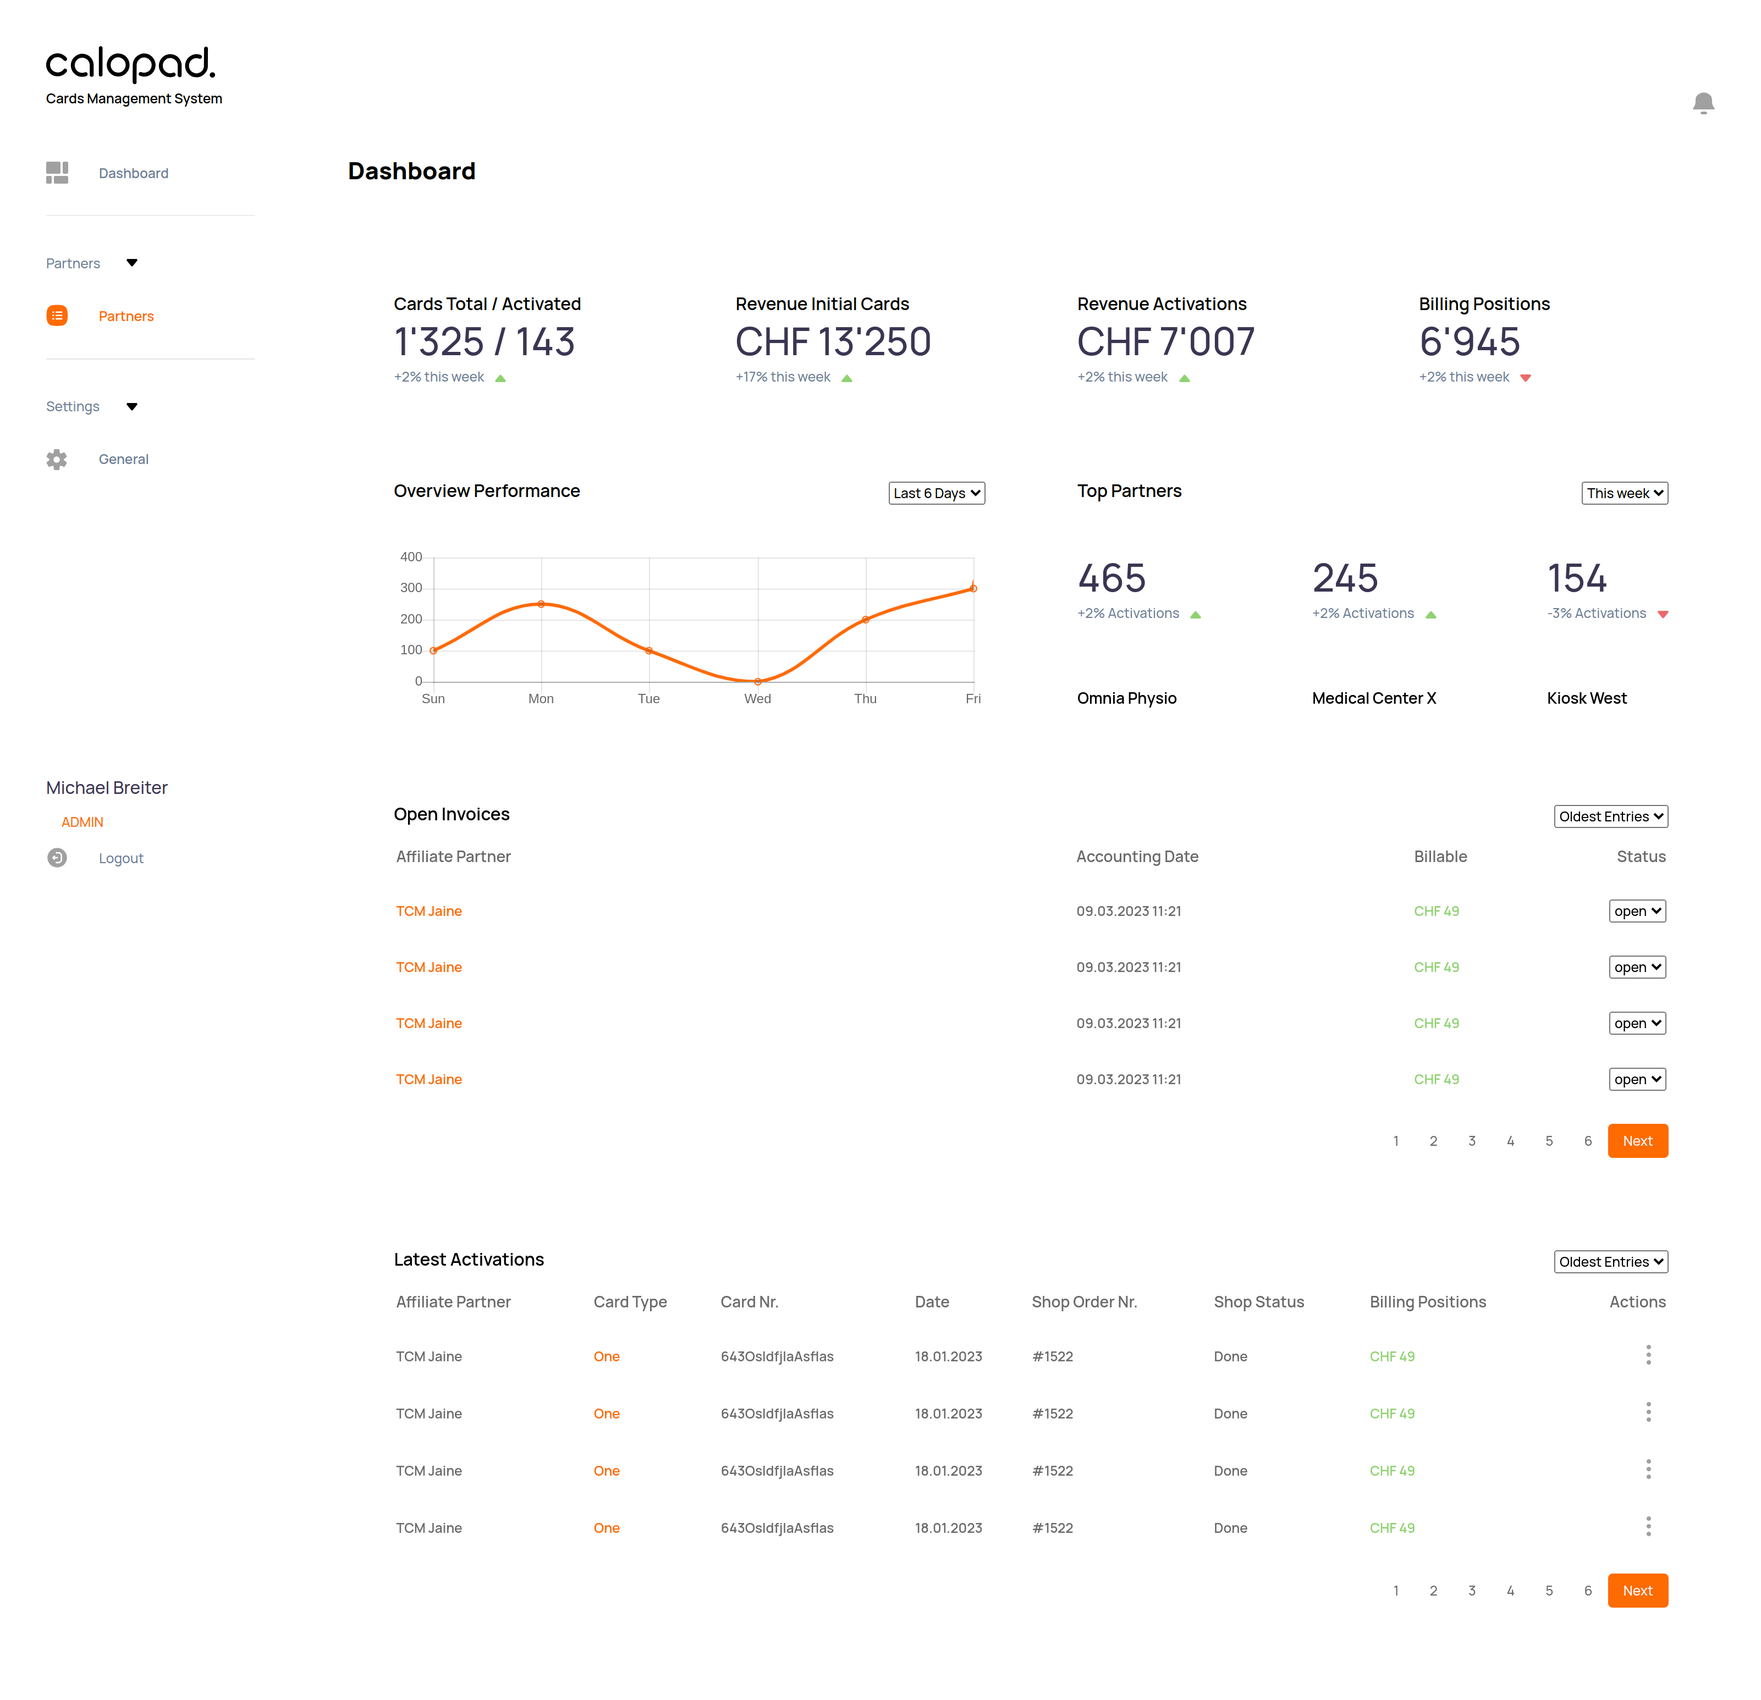
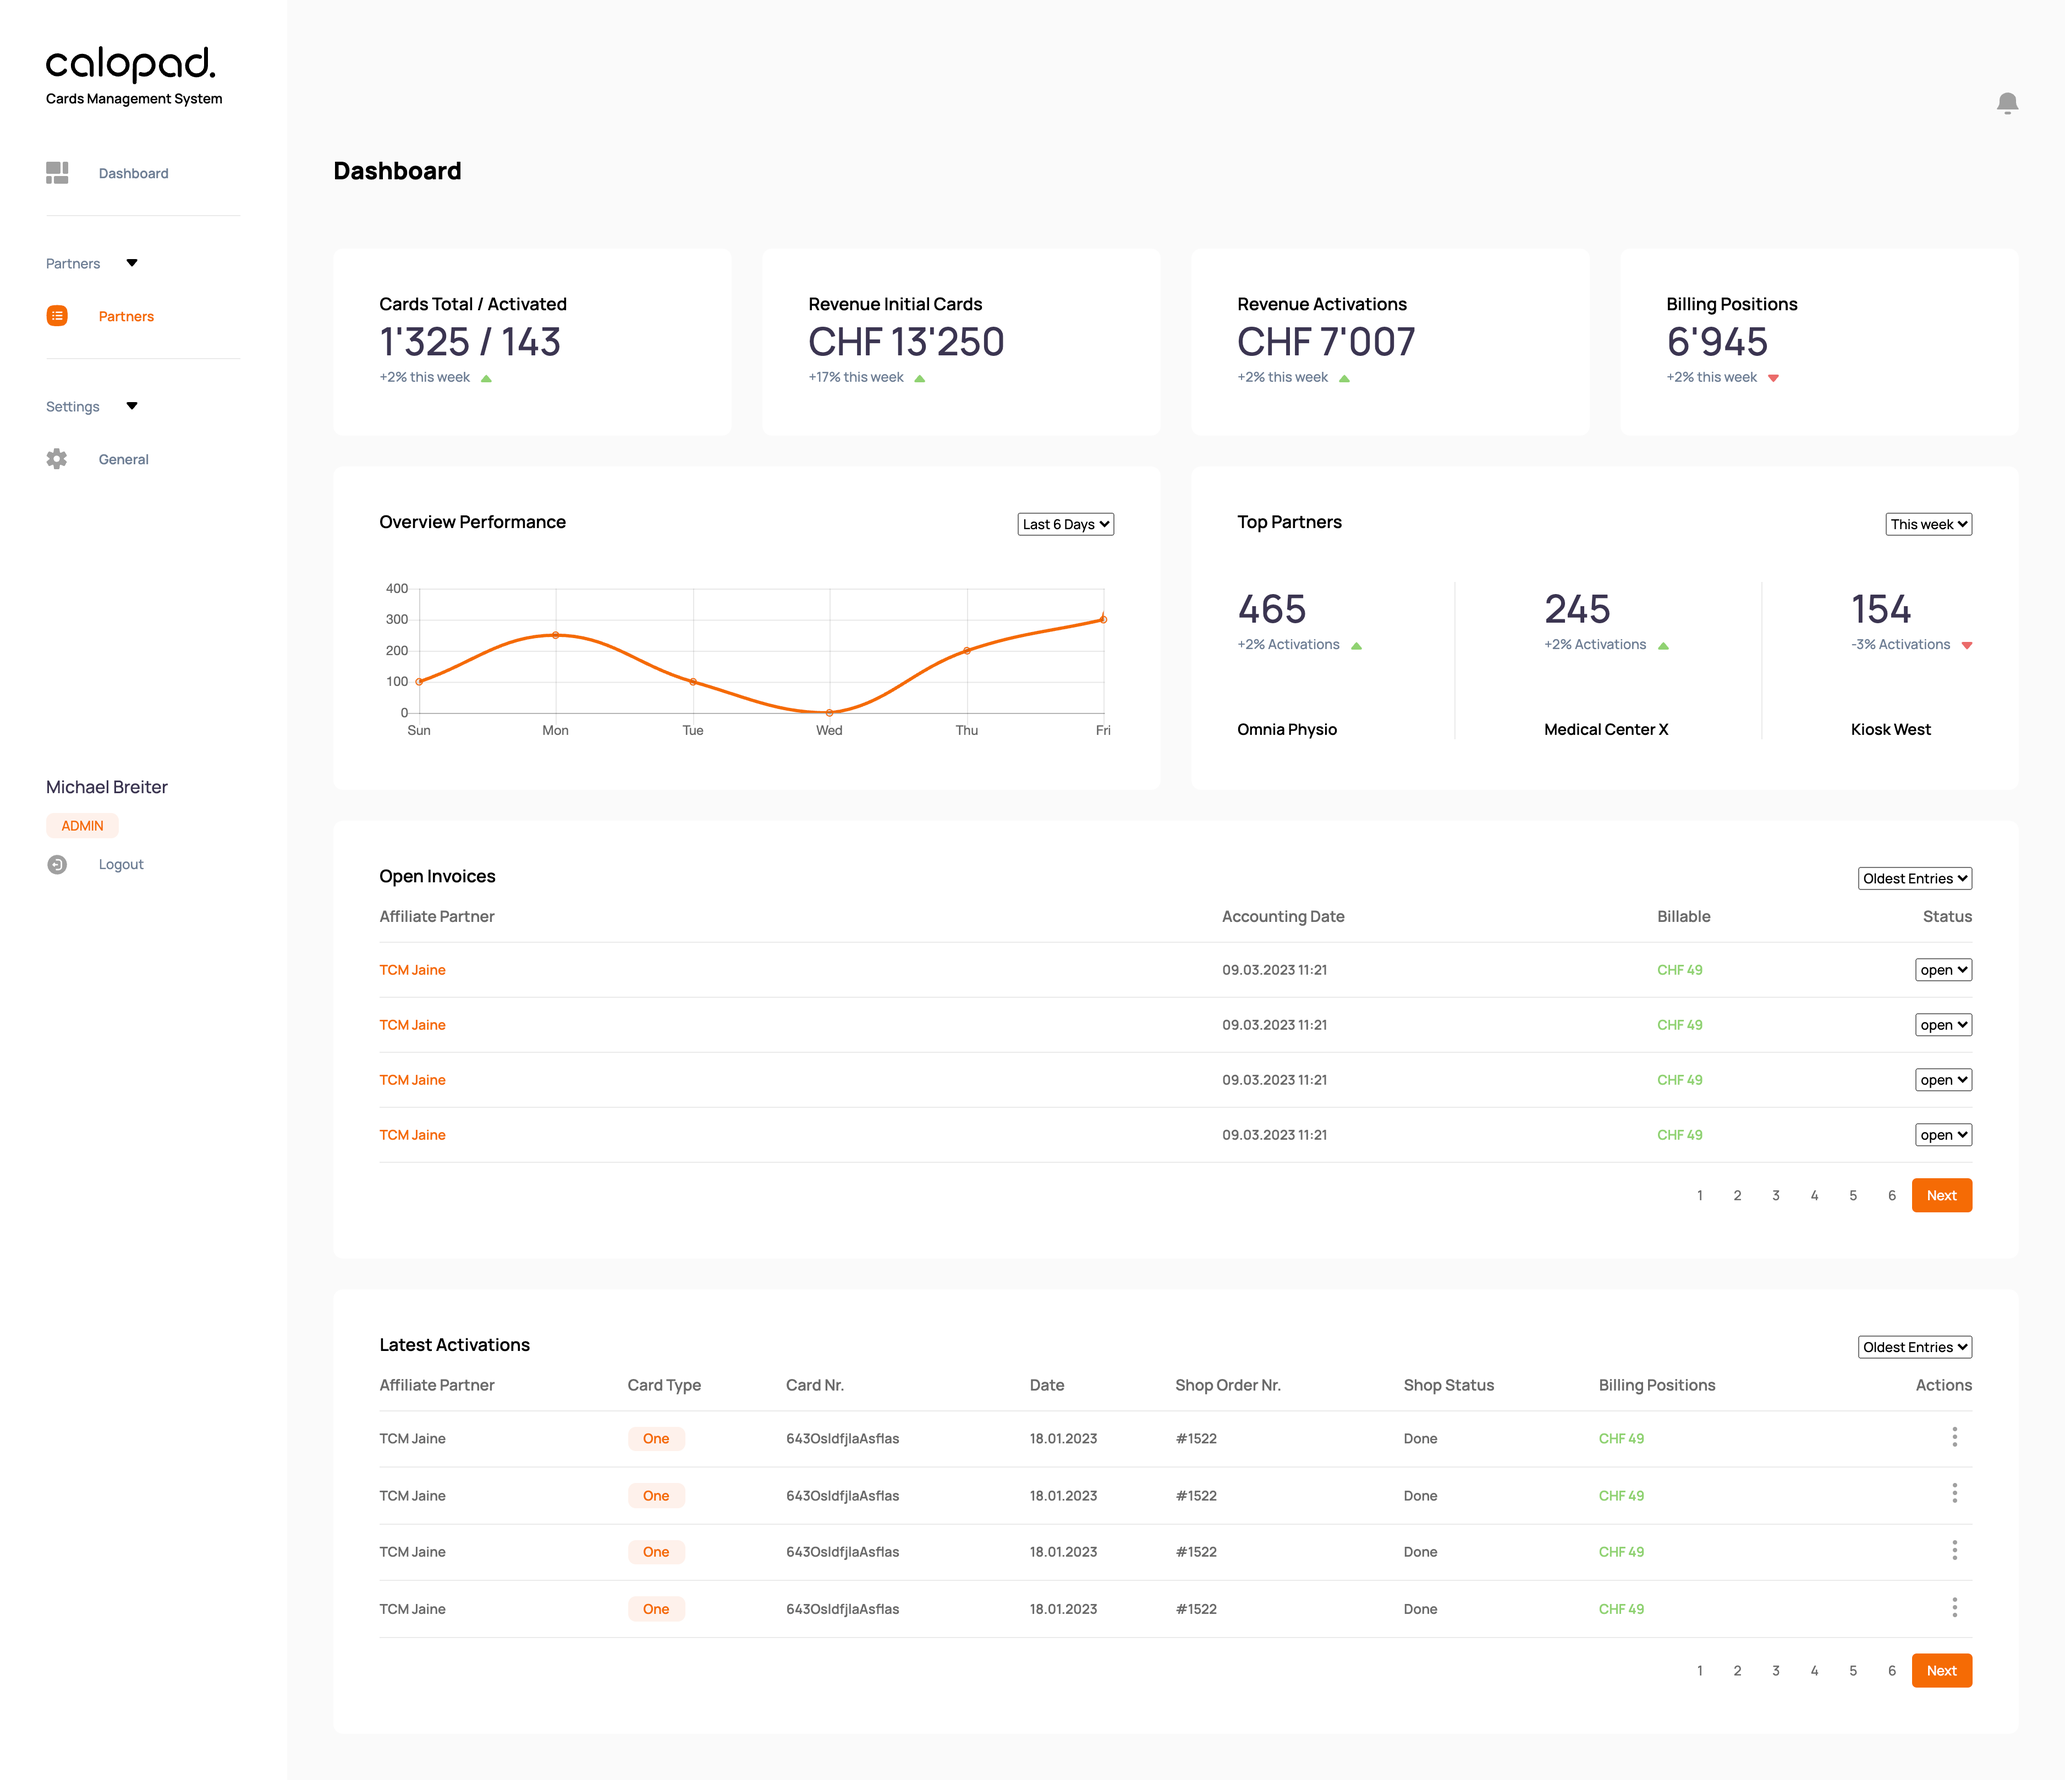
fix: color issues

diff --git a/index.html b/index.html
@@ -61,7 +61,7 @@
       </ul>
       <div class="nav-footer">
         <p class="card-title light-primary"> Michael Breiter </p>
-        <p class="orange py-1 pl-1">ADMIN</p>
+        <p class="orange py-1 pl-1 my-1 tag">ADMIN</p>
         <div class="d-flex align-items-center">
           <img src="images/logout.svg" alt="logout" width="20" height="20" class="mr-2" />
           <span class="light-secondary">Logout</span>
@@ -79,7 +79,7 @@
           <h1 class="font-800">Dashboard</h1>
         </div>
         <div class="cards-container">
-          <div class="p-3">
+          <div class="p-3 card">
             <div class="card-title font-600">Cards Total / Activated</div>
             <div class="card-counts light-primary font-500">1'325 / 143</div>
             <div class="card-variation d-flex">
@@ -87,7 +87,7 @@
               <img src="images/arrow_up.svg" alt="Arrow Up">
             </div>
           </div>
-          <div class="p-3">
+          <div class="p-3 card">
             <div class="card-title font-600">Revenue Initial Cards</div>
             <div class="card-counts light-primary font-500">CHF 13'250</div>
             <div class="card-variation d-flex">
@@ -95,7 +95,7 @@
               <img src="images/arrow_up.svg" alt="Arrow Up">
             </div>
           </div>
-          <div class="p-3">
+          <div class="p-3 card">
             <div class="card-title font-600">Revenue Activations</div>
             <div class="card-counts light-primary font-500">CHF 7'007</div>
             <div class="card-variation d-flex">
@@ -103,7 +103,7 @@
               <img src="images/arrow_up.svg" alt="Arrow Up">
             </div>
           </div>
-          <div class="p-3">
+          <div class="p-3 card">
             <div class="card-title font-600">Billing Positions</div>
             <div class="card-counts light-primary font-500">6'945</div>
             <div class="card-variation d-flex">
@@ -112,8 +112,8 @@
             </div>
           </div>
         </div>
-        <div class="cards-container">
-          <div class="p-3">
+        <div class="cards-container mt-2">
+          <div class="p-3 card">
             <div class="card-head d-flex justify-space-between">
               <div class="card-title font-600">Overview Performance</div>
               <select>
@@ -124,7 +124,7 @@
               <canvas id="chart"></canvas>
             </div>
           </div>
-          <div class="p-3">
+          <div class="p-3 card">
             <div class="card-head d-flex justify-space-between">
               <div class="card-title font-600">Top Partners</div>
               <select>
@@ -133,7 +133,7 @@
             </div>
             <div class="card-body pt-3">
               <div class="d-flex justify-space-between">
-                <div>
+                <div class="right-border pr-6">
                   <div class="card-counts light-primary font-500">465</div>
                   <div class="card-variation d-flex">
                     <p class="light-secondary">+2% Activations</p>
@@ -141,7 +141,7 @@
                   </div>
                   <div class="font-size-1 font-600 mt-4">Omnia Physio</div>
                 </div>
-                <div>
+                <div class="right-border pr-6">
                   <div class="card-counts light-primary font-500">245</div>
                   <div class="card-variation d-flex">
                     <p class="light-secondary">+2% Activations</p>
@@ -161,8 +161,8 @@
             </div>
           </div>
         </div>
-        <div class="cards-container">
-          <div class="p-3">
+        <div class="cards-container mt-2">
+          <div class="p-3 card">
             <div class="card-head d-flex justify-space-between">
               <div class="card-title font-600" id="open-invoices">Open Invoices</div>
               <select>
@@ -242,8 +242,8 @@
             </div>
           </div>
         </div>
-        <div class="cards-container">
-          <div class="p-3">
+        <div class="cards-container mt-2">
+          <div class="p-3 card">
             <div class="card-head d-flex justify-space-between">
               <div class="card-title font-600" id="latest-activations">Latest Activations</div>
               <select>
@@ -268,7 +268,7 @@
                   <tr>
                     <td>TCM Jaine</td>
                     <td>
-                      <div class="orange">One</div>
+                      <div class="tag">One</div>
                     </td>
                     <td>643OsldfjlaAsflas</td>
                     <td>18.01.2023</td>
@@ -284,7 +284,7 @@
                   <tr>
                     <td>TCM Jaine</td>
                     <td>
-                      <div class="orange">One</div>
+                      <div class="tag">One</div>
                     </td>
                     <td>643OsldfjlaAsflas</td>
                     <td>18.01.2023</td>
@@ -300,7 +300,7 @@
                   <tr>
                     <td>TCM Jaine</td>
                     <td>
-                      <div class="orange">One</div>
+                      <div class="tag">One</div>
                     </td>
                     <td>643OsldfjlaAsflas</td>
                     <td>18.01.2023</td>
@@ -317,7 +317,7 @@
                   <tr>
                     <td>TCM Jaine</td>
                     <td>
-                      <div class="orange">One</div>
+                      <div class="tag">One</div>
                     </td>
                     <td>643OsldfjlaAsflas</td>
                     <td>18.01.2023</td>

diff --git a/css/style.css b/css/style.css
@@ -2,12 +2,15 @@
   --primary: #000000;
   --light-primary: #3B3551;
   --orange: #FF6B00;
+  --light-orange: 255, 107, 0;
   --green: #90D272;
   --secondary: #A0A0A0;
   --light-secondary: #6F7F95;
   --red: #EB6A6A;
-  --grey: #6B6B6B;
+  --gray: #6B6B6B;
+  --light-gray: #EBEBEB;
   --white: #FFFFFF;
+  --light-white: #FAFAFA;
 }
 
 *, body, p, ul, li {
@@ -15,6 +18,15 @@
   margin: 0;
   font-family: 'Manrope', sans-serif;
   font-size: 0.875rem;
+  box-sizing: border-box;
+}
+
+body {
+  background: var(--light-white);
+}
+
+table {
+  border-collapse: collapse;
 }
 
 li {
@@ -77,12 +89,17 @@ a {
   width: 50%;
 }
 
+.w-33_33 {
+  width: 33.33%
+}
+
 .flex-column {
   flex-direction: column;
 }
 
 aside {
-  width: 17.5rem;
+  width: 21.5rem;
+  background: var(--white);
 }
 
 .nav {
@@ -143,6 +160,10 @@ main {
   padding-left: 3rem;
 }
 
+.pr-6 {
+  padding-right: 6rem;
+}
+
 .py-1 {
   padding-block: 1rem;
 }
@@ -179,6 +200,10 @@ main {
   margin-top: 4rem;
 }
 
+.my-1 {
+  margin-block: 1rem;
+}
+
 .my-2 {
   margin-block: 2rem;
 }
@@ -194,6 +219,12 @@ main {
   display: grid;
   grid-auto-columns: minmax(0, 1fr);
   grid-auto-flow: column;
+  gap: 2rem;
+}
+
+.card {
+  border-radius: 0.625rem;
+  background: var(--white);
 }
 
 .card-title {
@@ -209,6 +240,10 @@ main {
   height: 10.5rem;
 }
 
+.right-border {
+  border-right: 1px solid var(--light-gray);
+}
+
 .font-size-1 {
   font-size: 1rem;
 }
@@ -216,8 +251,9 @@ main {
 th, td {
   text-align: left;
   padding-block: 1rem;
-  color: var(--grey);
+  color: var(--gray);
   font-weight: 600;
+  border-bottom: 1px solid var(--light-gray);
 }
 
 .text-right {
@@ -227,12 +263,24 @@ th, td {
 .pagination a {
   padding-inline: 1rem;
   padding-block: 0.5rem;
-  color: var(--grey);
-}
-
-.pagination a:hover, .pagination a.active {
-  background: var(--orange);
-  color: var(--white);
+  color: var(--gray);
   border: none;
   border-radius: 0.3rem;
+}
+
+.pagination a.active {
+  background: var(--orange);
+  color: var(--white);
+}
+
+.pagination a:hover {
+  background: var(--light-gray);
+}
+
+.tag {
+  color: var(--orange);
+  padding: 0.2rem 1rem;
+  display: inline-block;
+  background: rgba(var(--light-orange), 0.1);
+  border-radius: 0.5rem;
 }
